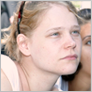
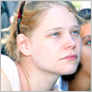
updated bio shots and home page

diff --git a/wp-content/themes/whiteboard-child/style.css b/wp-content/themes/whiteboard-child/style.css
@@ -1,231 +1,86 @@
-body {
-	margin: 0;
-	padding: 0;
-	background:#f1efe9;
-	color:#5f5f5f;
-	font-family:georgia;
-}
-
+body{margin:0;padding:0;background:#f1efe9;color:#5f5f5f;font-family:georgia;}
 .calibri{font-family:calibri;}
-
-#main {
-
-}
-.container {
-	width: 850px; margin: 0 auto;
-}
-
-#if-logged-in {
-	height: 20px;
-	line-height: 20px;
-	background: #666666;
-	color: #eee;
-	font-size: 11px;
-}
-	#if-logged-in p {
-		margin: 0;
-	}
-	#if-logged-in a:link,
-	#if-logged-in a:visited {
-		color: #fff;
-		text-decoration: none;
-		margin: 0px 15px;
-	}
-	#if-logged-in a:hover {
-		text-decoration: underline;
-	}
-	#if-logged-in a:active {
-		text-decoration: underline;
-		margin-bottom: -1px;
-	}
-
-#header {
-	
-}
-	#header-container{width: 850px; margin: 0 auto;clear:both;}
-	#logo {margin:30px 0 0 0;float:left;}
-	#daytracker {float:left;border-left:1px solid #cbcbcb;border-bottom:1px solid #cbcbcb;border-right:1px solid #cbcbcb;padding:3px 13px;background:#f5f3ed;color:#7d7d7d;font-size:16px;letter-spacing:0.5px;margin:0 0 0 30px;}
-	#quote{float:right;font-size:12px;color:#909090;width:251px;margin:16px 0;line-height:15px;}
-	.source {color:#9f9f9f;font-size:11px;width:100%;float:right;text-align:right;}
-	#nav {float:left;clear:both;width:100%;border-top:1px solid #cbcbcb;border-bottom:1px solid #cbcbcb;padding:12px 0 7px;margin:0 0 45px;
-		
-	}
-	#menu {width: 850px; margin: 0 auto;}
-	#menu li{list-style:none;float:left;margin:0 35px 0 0;}
-	#widgit-header {
-		
-	}
-	#widgit-alert {
-		
-	}
-	#bios{float:left;width:104px;position:relative;margin:0px 0 0;}
-	#bios li{float:left;font-family:calibri;font-size:12px;line-height:15px;color:#808080;list-style:none;margin:0 0 15px 12px;}
-	h1{color:#747474;font-size:24px;letter-spacing:0.5px;}
-	#two-blocks{margin:35px 0 0;}
-	#two-blocks #left{float:left;width:390px;border-right:1px solid #cbcbcb;padding:0 27px 0 0;}
-	#two-blocks #right{float:right;width:390px;}
-	#two-blocks p{color:#7d7d7d;font-size:13px;line-height:21px;margin-bottom:10px;}
-	#two-blocks li{list-style:square;list-style-postion:outside;color:#7d7d7d;font-size:13px;line-height:21px;}
-
-#content {width:540px;float:left;
-	
-}
-	.featured-thumbnail {
-		
-	}
-	.post-content {
-		
-	}
-		.pagination {
-			
-		}
-	.post-meta {
-		
-	}
-	.post-navigation {
-		
-	}
-
-#comments {
-	
-}
-	li.comment {
-		
-	}
-		.odd {
-			
-		}
-		.even {
-			
-		}
-		.author-comment {
-			
-		}
-		.comment-text {
-			
-		}
-		.comment-meta {
-			
-		}
-			p.gravatar {
-				
-			}
-	#trackbacks {
-		
-	}
-		li.trackback {
-			
-		}
-	p#no-comments {
-		
-	}
-	#comments-form {
-		
-	}
-		#respond {
-			
-		}
-		.cancel-comment-reply {
-			
-		}
-
-.page {
-	
-}
-	#page-content {
-		
-	}
-	#page-meta {
-		
-	}
-
-.post {
-	
-}
-	#post-content, #page-content{border-bottom:1px solid #cbcbcb;padding:0 0 15px 0;margin:0 0 20px;}
-	#post-content p, #page-content p{font-size:14px;line-height:23px;color:#5f5f5f;
-		
-	}
-	.post-excerpt {
-		
-	}
-
-.search {
-	
-}
-
-.author {
-	
-}
-#recent-author-posts {
-	
-}
-#recent-author-comments {
-	
-}
-
-#error404 {
-	
-}
-
-#sidebar {width:300px;float:right;
-	
-}
-	#widgit-sidebar {
-		
-	}
-		#sidebar-search {
-			
-		}
-		#sidebar-nav {
-			
-		}
-		#sidebar-archives {
-			
-		}
-		#sidebar-meta {
-			
-		}
-		.widgit {
-			
-		}
-
-#footer {font-size:12px;line-height:23px;color:#898989;font-family:calibri;margin-top:60px;
-	
-}
-	#widgit-footer {
-		
-	}
-	#footer-nav {
-		
-	}
-	
-.no-results {
-	
-}
-
-.widgit-area {
-	
-}
-
-.right {
-	float: right;
-}
-.left {
-	float: left;
-}
-.clear {
-	clear: both;
-}
+#main{}
+.container{width:850px;margin:0 auto;}
+#if-logged-in{height:20px;line-height:20px;background:#666666;color:#eee;font-size:11px;}
+#if-logged-in p{margin:0;}
+#if-logged-in a:link,
+#if-logged-in a:visited{color:#fff;text-decoration:none;margin:0px 15px;}
+#if-logged-in a:hover{text-decoration:underline;}
+#if-logged-in a:active{text-decoration:underline;margin-bottom:-1px;}
+#header{}
+#header-container{width:850px;margin:0 auto;clear:both;}
+#logo{margin:30px 0 0 0;float:left;}
+#daytracker{float:left;border-left:1px solid #cbcbcb;border-bottom:1px solid #cbcbcb;border-right:1px solid #cbcbcb;padding:3px 13px;background:#f5f3ed;color:#7d7d7d;font-size:16px;letter-spacing:0.5px;margin:0 0 0 30px;}
+#quote{float:right;font-size:12px;color:#909090;width:251px;margin:16px 0;line-height:15px;}
+.source{color:#9f9f9f;font-size:11px;width:100%;float:right;text-align:right;}
+#nav{float:left;clear:both;width:100%;border-top:1px solid #cbcbcb;border-bottom:1px solid #cbcbcb;padding:12px 0 7px;margin:0 0 45px;}
+#menu{width:850px;margin:0 auto;}
+#menu li{list-style:none;float:left;margin:0 35px 0 0;}
+#widgit-header{}
+#widgit-alert{}
+#bios{float:left;width:104px;position:relative;margin:0px 0 0;}
+#bios li{float:left;font-family:calibri;font-size:12px;line-height:15px;color:#808080;list-style:none;margin:0 0 15px 12px;}
+h1{color:#747474;font-size:24px;letter-spacing:0.5px;font-weight:normal;}
+#two-blocks{margin:35px 0 0;}
+#two-blocks #left{float:left;width:390px;border-right:1px solid #cbcbcb;padding:0 30px 0 0;}
+#two-blocks #right{float:right;width:390px;}
+#two-blocks p{color:#7d7d7d;font-size:13px;line-height:21px;margin-bottom:10px;}
+#two-blocks li{list-style:square;list-style-postion:outside;color:#7d7d7d;font-size:13px;line-height:21px;}
+#content{width:540px;float:left;}
+.featured-thumbnail{}
+.post-content{}
+.pagination{}
+.post-meta{}
+.post-navigation{}
+#comments{}
+li.comment{}
+.odd{}
+.even{}
+.author-comment{}
+.comment-text{}
+.comment-meta{}
+p.gravatar{}
+#trackbacks{}
+li.trackback{}
+p#no-comments{}
+#comments-form{}
+#respond{}
+.cancel-comment-reply{}
+.page{}
+#page-content{}
+#page-meta{}
+.post{}
+#post-content,#page-content{border-bottom:1px solid #cbcbcb;padding:0 0 15px 0;margin:0 0 20px;}
+#post-content p,#page-content p{font-size:14px;line-height:23px;color:#5f5f5f;}
+.post-excerpt{}
+.search{}
+.author{}
+#recent-author-posts{}
+#recent-author-comments{}
+#error404{}
+#sidebar{width:300px;float:right;}
+#widgit-sidebar{}
+#sidebar-search{}
+#sidebar-nav{}
+#sidebar-archives{}
+#sidebar-meta{}
+.widgit{}
+#footer{font-size:12px;line-height:23px;color:#898989;font-family:calibri;margin-top:60px;}
+#widgit-footer{}
+#footer-nav{}
+.no-results{}
+.widgit-area{}
+.right{float:right;}
+.left{float:left;}
+.clear{clear:both;}
 .postinfo{color:#747474;font-size:12px;line-height:19px;margin:5px 0 15px;}
 .suggestinfo p{color:#747474;font-size:13px;line-height:24px;margin:20px 0 35px;letter-spacing:0.5px;}
-a {color:#617c98;}
-h1.title a {color:#747474;font-size:24px;letter-spacing:0.5px;text-decoration:none;}
-h1.title a:hover {text-decoration:underline;}
+a{color:#617c98;}
+h1.title a{color:#747474;font-size:24px;letter-spacing:0.5px;text-decoration:none;}
+h1.title a:hover{text-decoration:underline;}
 .newer-older{width:540px;clear:both;}
 .suggestion-container{border-top:1px solid #cbcbcb;padding:25px 0 0 0;margin:0 0 30px 0;}
 .suggestor{color:#5f5f5f;font-size:13px;font-weight:bold;margin-bottom:5px;}
 .suggestion{color:#5f5f5f;font-size:13px;font-weight:normal}
 #commentsForm{margin-bottom:80px;}
-
-/* Always remember to compress your live stylesheet and keep an uncompressed backup */

diff --git a/wp-content/themes/whiteboard/page.php b/wp-content/themes/whiteboard/page.php
@@ -12,17 +12,28 @@
 	<div id="two-blocks">
 		<div id="left">
 			<h1>Why?</h2>
-			<p>	Brian and I met because of this truck.</p><p>
+			<p>		We met because of this truck.</p>
 
-				I had quit my job in New York and was WWOOFing at a hostel in Cambria, CA. Brian had also quit his job in LA and was living out of his truck, driving to Alaska, when he showed up at Cambria to work for a week. We hit it off and I moved into the truck with him and we continued north. We got as far as the Puget Sound when Brian was rehired at his old job and returned back to LA. I went home to New York, but we never stopped talking about how incredibly free we felt while living in that truck – how close we were to the places we stayed, how much we saw by travelling from place to place with nothing between us but the camper shell on the bed. We longed to return to a less materialistic way of life, to only have as much with us as we could keep in the cab and the back, to erase the excess baggage by lightening our load. Most importantly, however, we wanted to be strangers again. It is a unique perspective, being alone and foreign in a place; it encourages both external curiosity and inward contemplation. We thought that if we could slow down and take in our surroundings, really look at this country and the world we come from, then maybe we could understand ourselves a little better.</p><p>
 
-				Aside from our desire to return to the truck, I had begun to take poetry classes. I have been a poet since I was a teenager, but I had never really considered myself a writer until a couple of years ago. I started to wonder what would happen if I let myself focus on writing for a few months, let it be the only task I have each day. Would I become a better writer?</p><p>
 
-				So a year ago, Brian and I decided to make a plan. We would travel the country, live in the truck, and write. This is our adventure.</p>
+			<p>	Lillian had quit her job in New York and was WWOOFing in Cambria, CA. Brian had also quit his job in LA and was living out of his truck, driving to Alaska, when he showed up at the same hostel to work for a week. They became immediately inseparable, and when Brian returned to the road, Lillian was in the passenger seat.</p>
+
+
+
+				<p>We only got as far as the Puget Sound when Brian was rehired at his old job and returned to LA. Lillian went home to New York, but we never stopped talking about how incredibly free we felt while living in that truck – how close we were to the places we stayed, how much we saw by traveling from place to place with nothing between us but the camper shell on the bed. We longed to return to less materialistic way of life, to only have as much with us as we could keep in the cab and the back, to erase the excess baggage by lightening our load. Most importantly, however, we wanted to be strangers again. It is a unique perspective, being alone and foreign in a place; it encourages both external curiosity and inward contemplation. We thought that if we could slow down and take in our surroundings, really look at this country and the world we come from, then maybe we could understand ourselves a little better.</p>
+
+
+
+			<p>	Lillian wants to focus on her writing, through poems and blog posts. Brian will take the time to read, study and learn more about life.</p>
+
+
+
+				<p> Welcome to our adventure. 
+			</p>
 		</div><!--#left-->
 		<div id="right">
 			<h1>How?</h2>
-			<p>	Brian and I will travel by day in the cab, and sleep by night in the bed. Our truck is equipped with the following: </p>
+			<p>	We will travel by day in the cab, and sleep by night in the bed. Our truck is equipped with the following: </p>
 
 			<ul>	<li>a camper shell and carpeting</li>
 
